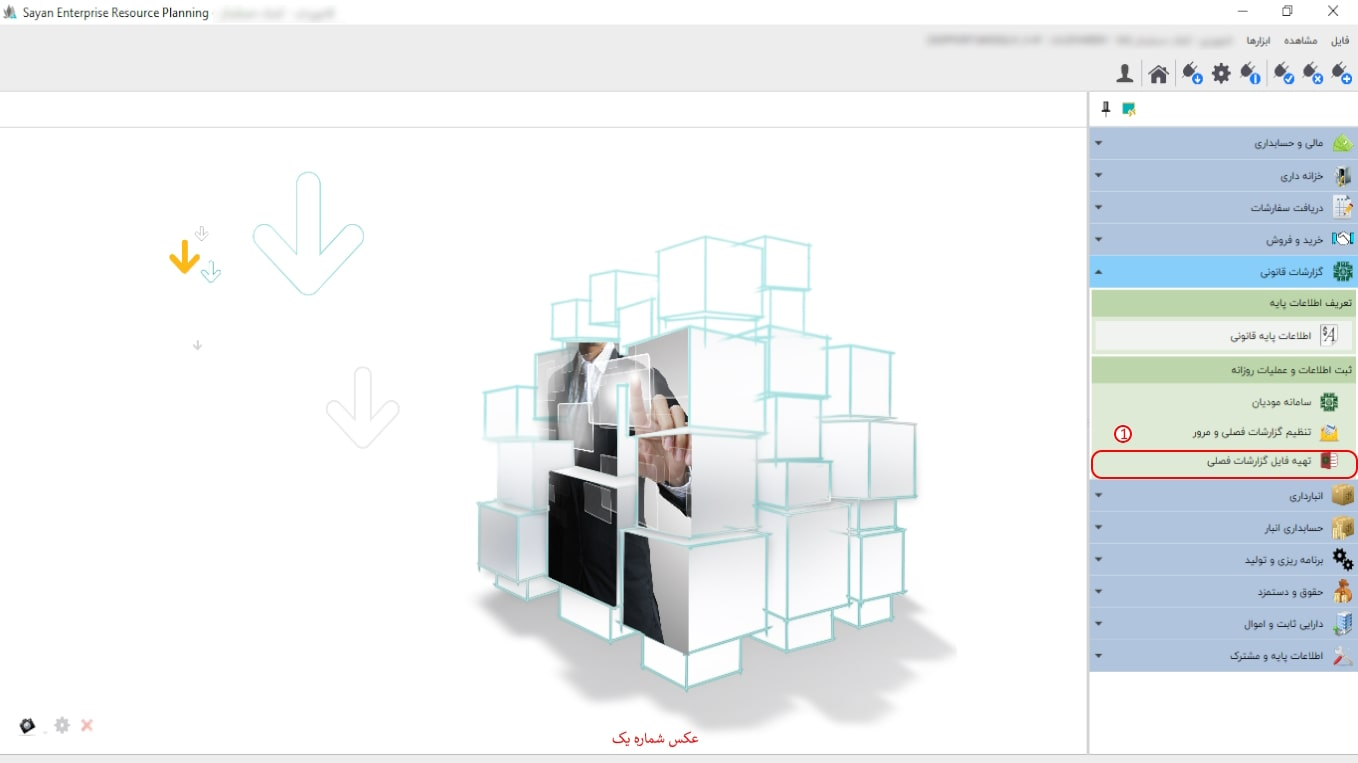
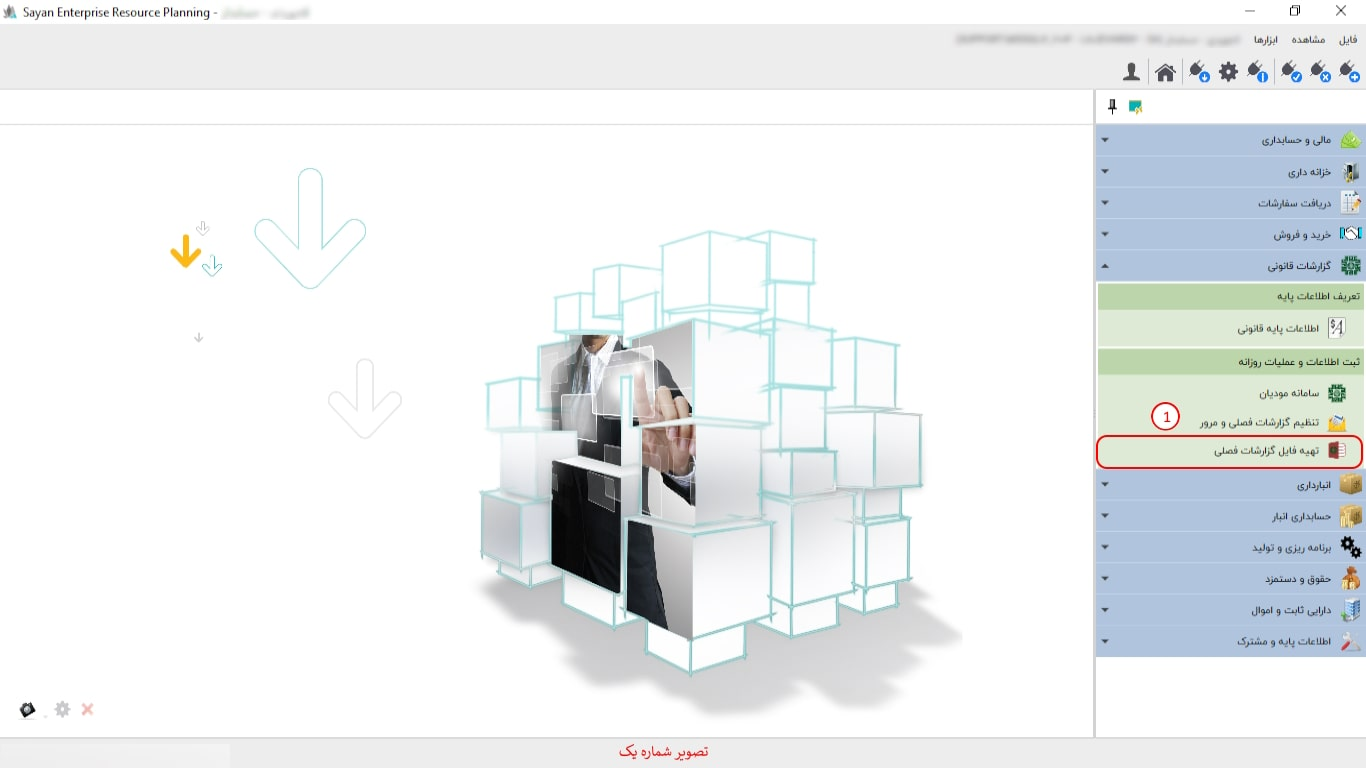
تغییر در عکس

diff --git a/Help/fa-IR/_06_گزارشات قانونی/_04_تهیه فایل گزارشات فصلی/Index.html b/Help/fa-IR/_06_گزارشات قانونی/_04_تهیه فایل گزارشات فصلی/Index.html
@@ -17,7 +17,7 @@
 	</p>   
 	<img class="FitPic" src="l1.jpg" />
 	<p>
-		برای ادامه مطلب به عکس شماره دوم مراجعه نمایید. 
+		برای ادامه مطلب به تصویر شماره دو مراجعه نمایید. 
 	</p>       
 		<img class="FitPic" src="l2.jpg" />
 		<p>
